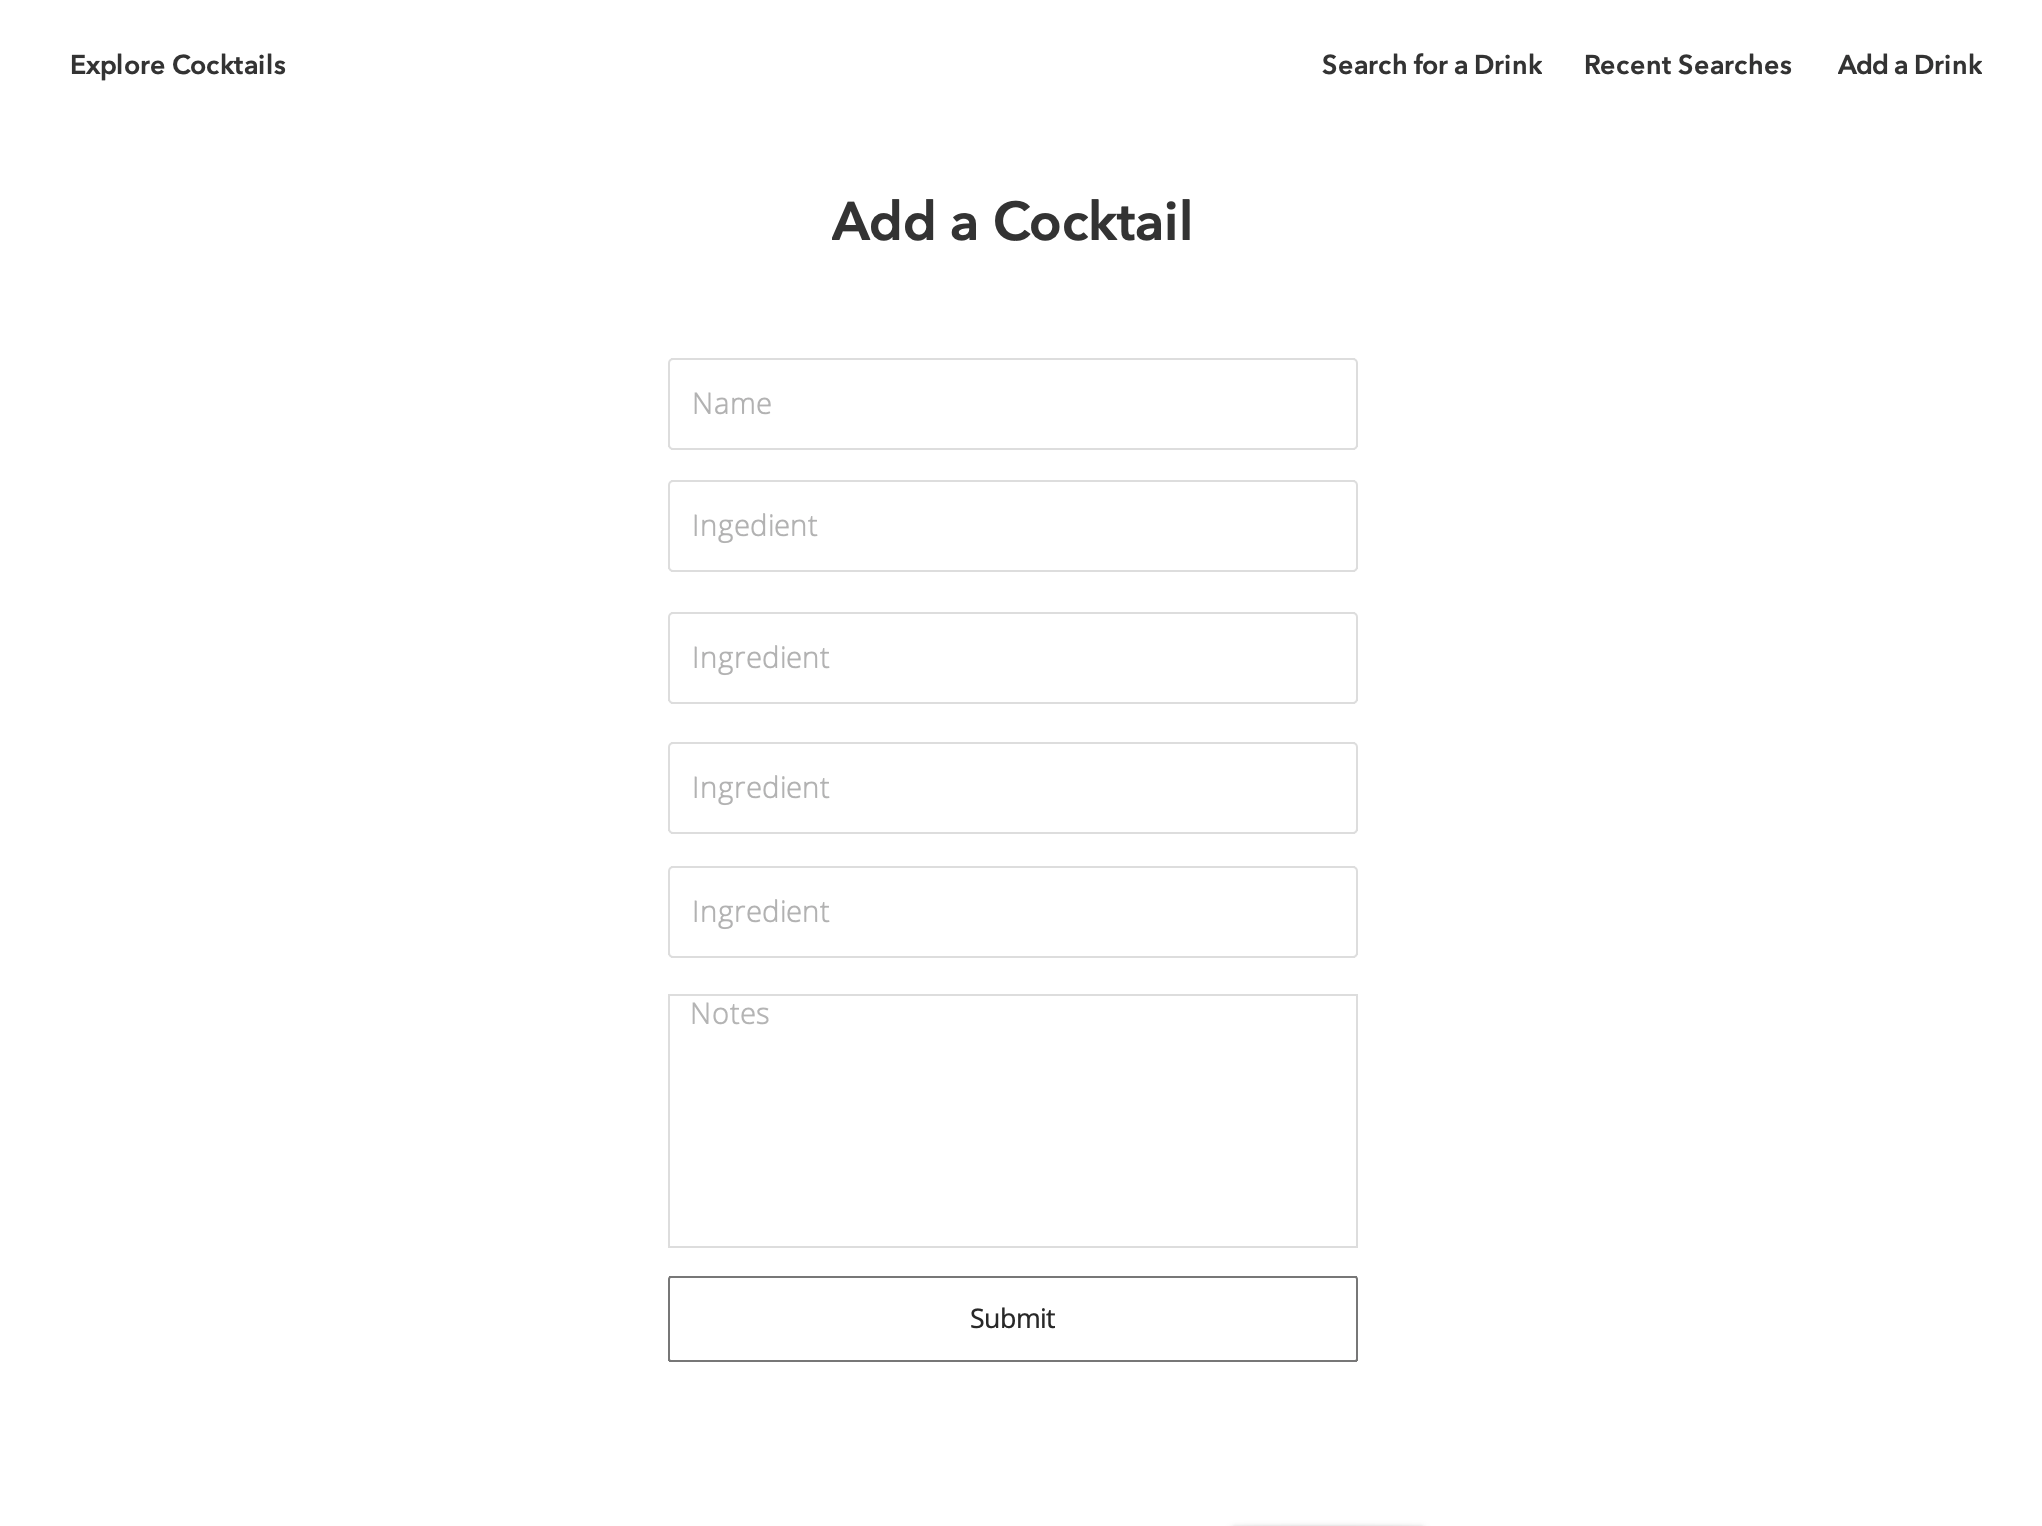
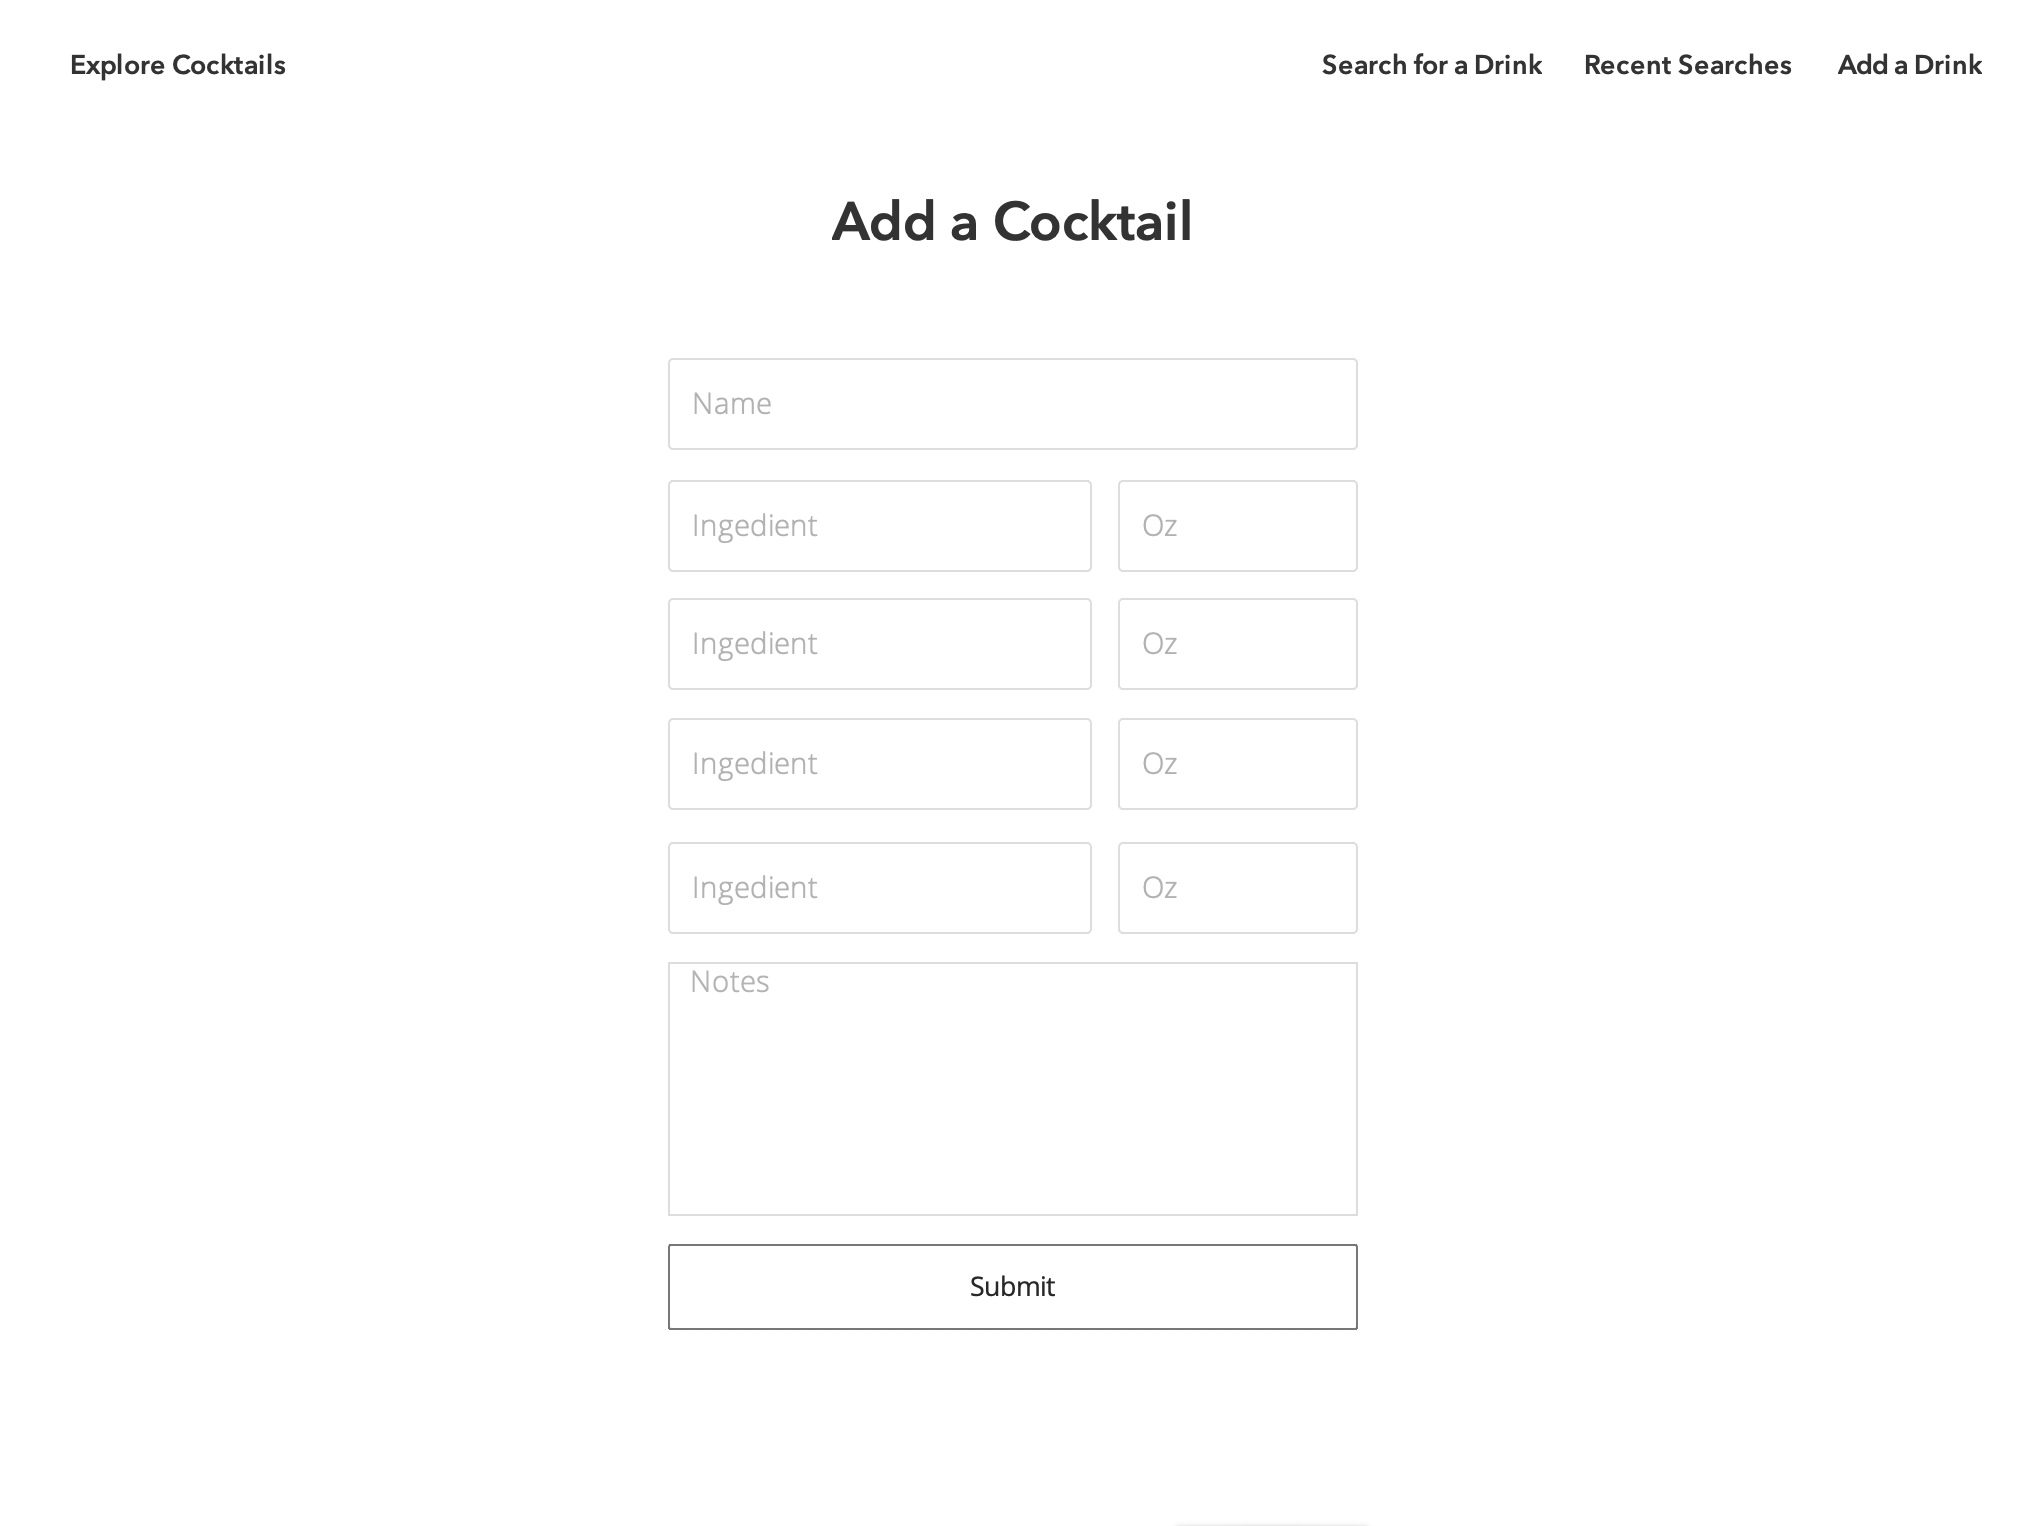
HTML dir with files

diff --git a/html/add-drink.html b/html/add-drink.html
@@ -1,0 +1,91 @@
+<!DOCTYPE html>
+<html>
+  <head>
+    <meta charset="UTF-8">
+    <meta name="viewport" content="width=device-width, initial-scale=1.0">
+    <title>Explore Cocktails</title>
+    <link rel="stylesheet" href="https://cdnjs.cloudflare.com/ajax/libs/semantic-ui/2.4.1/semantic.min.css" type="text/css"/>
+    <link rel="stylesheet" href="assets/css/style.css" type="text/css"/>
+    <link href="https://fonts.googleapis.com/css2?family=Josefin+Sans&display=swap" rel="stylesheet">
+  </head>
+
+  <body>
+
+    <!-- Menu -->
+
+    <div class="ui fixed menu">
+      <div class="ui container">
+        <a class="item theFont header" href="#">Explore Cocktails</a>
+        <a class="item theFont right aligned" href="#">Recent Drinks</a>
+        <a class="item theFont" href="#">Add a Drink</a>
+      </div>
+    </div>
+
+    <!-- Add a Drink Inputs -->
+    <div class="ui main text container">
+      <div class="center aligned">
+          <div class="title">Add a Drink</div>
+            <form class="ui form ui huge">
+              <div class="field">
+                <div class="fields">
+                  <div class="sixteen wide field">
+                    <input type="text" name="#" placeholder="Drink Name">
+                  </div>
+                </div>
+              </div>
+            
+              <div class="field">
+                <div class="fields">
+                  <div class="twelve wide field">
+                    <input type="text" name="#" placeholder="Ingredient">
+                  </div>
+                  <div class="four wide field">
+                    <input type="text" name="#" placeholder="Oz">
+                  </div>
+                </div>
+              </div>
+
+              <div class="field">
+                <div class="fields">
+                  <div class="twelve wide field">
+                    <input type="text" name="#" placeholder="Ingredient">
+                  </div>
+                  <div class="four wide field">
+                    <input type="text" name="#" placeholder="Oz">
+                  </div>
+                </div>
+              </div>
+
+              <div class="field">
+                <div class="fields">
+                  <div class="twelve wide field">
+                    <input type="text" name="#" placeholder="Ingredient">
+                  </div>
+                  <div class="four wide field">
+                    <input type="text" name="#" placeholder="Oz">
+                  </div>
+                </div>
+              </div>
+
+              <div class="field">
+                <div class="fields">
+                  <div class="twelve wide field">
+                    <input type="text" name="#" placeholder="Ingredient">
+                  </div>
+                  <div class="four wide field">
+                    <input type="text" name="#" placeholder="Oz">
+                  </div>
+                </div>
+              </div>
+
+              <div class="field">
+                <textarea name="#" placeholder="Notes..."></textarea>
+              </div>
+
+              <button class="fluid ui huge basic button" name="#">Add your Drink</button>
+
+      </div>
+    </div>
+    
+  </body>
+</html>

diff --git a/html/results.html b/html/results.html
@@ -1,0 +1,42 @@
+<!DOCTYPE html>
+<html>
+  <head>
+    <meta charset="UTF-8">
+    <meta name="viewport" content="width=device-width, initial-scale=1.0">
+    <title>Explore Cocktails</title>
+    <link rel="stylesheet" href="https://cdnjs.cloudflare.com/ajax/libs/semantic-ui/2.4.1/semantic.min.css" type="text/css"/>
+    <link rel="stylesheet" href="assets/css/style.css" type="text/css"/>
+    <link href="https://fonts.googleapis.com/css2?family=Josefin+Sans&display=swap" rel="stylesheet">
+  </head>
+
+  <body>
+
+    <!-- Menu -->
+
+    <div class="ui fixed menu">
+      <div class="ui container">
+        <a class="item theFont header" href="#">Explore Cocktails</a>
+        <a class="item theFont right aligned" href="#">Recent Drinks</a>
+        <a class="item theFont" href="#">Add a Drink</a>
+      </div>
+    </div>
+
+    <!-- Search Results -->
+    <div class="ui main text container">
+      <div class="center aligned">
+          <div class="title">Search Results</div>
+            <div class="eight wide column">
+              <div class="results">
+                <h3 class="ui header theFont">RESULT ID#1</h3>
+                </p>ROW #1 ID#1</p>
+                </p>ROW #2 ID#1</p>
+                </p>ROW #3 ID#1</p>
+                </p>ROW #4 ID#1</p>
+                </p>NOTE #5 ID#1</p>
+              </div>
+            </div>
+      </div>
+    </div>
+    
+  </body>
+</html>

diff --git a/html/index.html b/html/index.html
@@ -1,0 +1,37 @@
+<!DOCTYPE html>
+<html>
+  <head>
+    <meta charset="UTF-8">
+    <meta name="viewport" content="width=device-width, initial-scale=1.0">
+    <title>Explore Cocktails</title>
+    <link rel="stylesheet" href="https://cdnjs.cloudflare.com/ajax/libs/semantic-ui/2.4.1/semantic.min.css" type="text/css"/>
+    <link rel="stylesheet" href="assets/css/style.css" type="text/css"/>
+    <link href="https://fonts.googleapis.com/css2?family=Josefin+Sans&display=swap" rel="stylesheet">
+  </head>
+
+  <body>
+
+    <!-- Menu - Would like to get the lines removed... have the links floating -->
+
+    <div class="ui fixed menu">
+      <div class="ui container">
+        <a class="item theFont header" href="#">Explore Cocktails</a>
+        <a class="item theFont right aligned" href="#">Recent Drinks</a>
+        <a class="item theFont" href="#">Add a Drink</a>
+      </div>
+    </div>
+
+    <!-- Search block -->
+    <div class="ui main text container">
+      <div class="center aligned">
+        <img class="ui centered medium image" src="assets/img/cocktail_home.png"/>
+          <div class="hugeText">Cocktails</div>
+          <div class="ui fluid action input huge">
+            <input type="text" placeholder="Find a cocktail...">
+            <div class="ui button basic">Search</div>
+          </div>
+      </div>
+    </div>
+    
+  </body>
+</html>

diff --git a/html/assets/css/style.css b/html/assets/css/style.css
@@ -1,0 +1,43 @@
+body {
+  background-color: white;
+}
+
+.theFont {
+  font-family: 'Josefin Sans', sans-serif;
+}
+.ui.menu .item img.ui.mini.image {
+  margin-right: 1.5em;
+}
+
+.ui.main.text.container {
+  margin-top: 7em;
+}
+
+.ui.main.text.container .ui.image {
+  margin-top: 2em;
+}
+
+.title {
+  font-size: 40px;
+  text-align: center;
+  font-family: 'Josefin Sans', sans-serif;;
+}
+
+.hugeText { 
+  font-size: 65px;
+  text-align: center;
+  font-family: 'Josefin Sans', sans-serif;;
+}
+
+.ui.footer.segment {
+  margin: 5em 0em 0em;
+  padding: 5em 0em;
+}
+
+.footer {
+  position: absolute center;
+  bottom: 0;
+  margin-top: 0;
+  margin-bottom: 0;
+}
+
